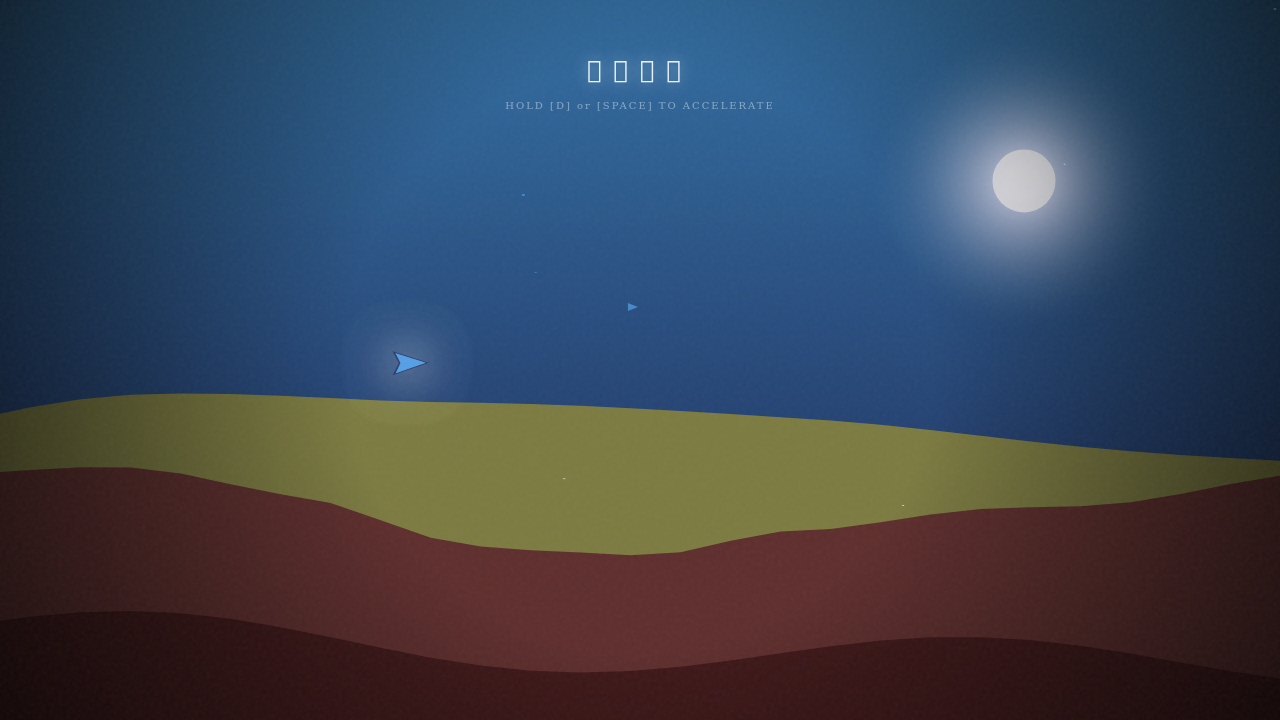
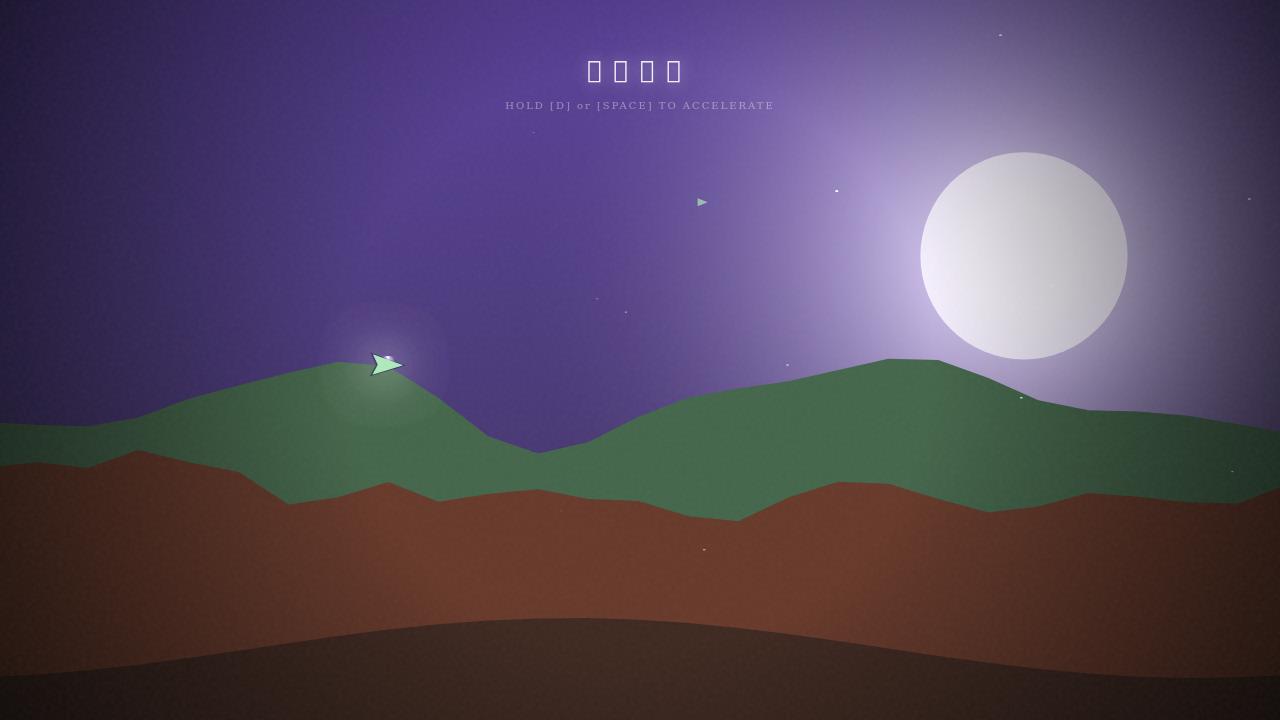
feat: Implement Living Worlds Engine with Dynamic Environmental Performances
This commit brings the universe of TheSky to life by introducing a dynamic environmental performance engine. Instead of static backdrops, scenes now feature a host of procedural, tag-driven events and interactions that create a deeply immersive and "living" world.

Key Features of the "Living Worlds Engine":

1.  **Weather Performances (Thunderstorms):**
    *   An event-based weather system has been implemented.
    *   Scenes tagged as `stormy` and experiencing `rain` will now feature dramatic, randomly timed lightning flashes that illuminate the entire world, adding tension and spectacle.

2.  **Interactive Environments:**
    *   **"Breath of the Wind"**: Flora-based props (grass, branches, etc.) in scenes tagged `nature` now dynamically sway and bend in reaction to the player's flight speed, creating a tangible sense of interaction with the environment.
    *   **"Heartbeat of the Earth"**: The ground in volcanic scenes tagged `fire` now features procedurally drawn, glowing lava fissures that gently pulse with light, giving the impression of a living, breathing landscape.

3.  **Grand Sky Performances (Dynamic Auroras):**
    *   A new sky-layer rendering system has been created for large-scale atmospheric effects.
    *   Scenes tagged `aurora` (e.g., "Aurora Glacier") will now display majestic, procedurally generated auroras that slowly dance and warp across the entire sky, creating breathtaking celestial views.

4.  **Tag System Integration:**
[…]

diff --git a/game.js b/game.js
@@ -85,7 +85,7 @@ const THEMES = [
     },
     {
         name: { en: "NEON GRID", ch: "霓虹网格" },
-        tags: ['dark', 'city', 'cyberpunk'],
+        tags: ['dark', 'city', 'cyberpunk', 'stormy'],
         sky: ['#000000', '#5e35b1'],
         sun: '#f06292', sunSize: 90, sunY: 0.5,
         mountFar: '#283593', mountNear: '#1a237e',
@@ -111,7 +111,7 @@ const THEMES = [
     },
     {
         name: { en: "VOLCANIC CHASM", ch: "火山裂谷" },
-        tags: ['dark', 'fire', 'jagged', 'hostile'],
+        tags: ['dark', 'fire', 'jagged', 'hostile', 'stormy'],
         sky: ['#210806', '#8c1102'],
         sun: '#ffae3d', sunSize: 150, sunY: 0.6,
         mountFar: '#1a090d', mountNear: '#2b0f15',
@@ -176,7 +176,7 @@ const THEMES = [
     },
     {
         name: { en: "AURORA GLACIER", ch: "极光冰川" },
-        tags: ['cold', 'ice', 'sky', 'winter'],
+        tags: ['cold', 'ice', 'sky', 'winter', 'aurora'],
         sky: ['#0c1440', '#00a896'],
         sun: '#ffffff', sunSize: 40, sunY: 0.2,
         mountFar: '#add8e6', mountNear: '#ffffff',
@@ -374,7 +374,18 @@ const state = {
     npcs: [],
 
     // --- 新增：远景实体状态 ---
-    distantEntities: []
+    distantEntities: [],
+
+    // --- 新增：天气事件状态 ---
+    lightning: {
+        timer: 200,
+        alpha: 0
+    },
+
+    // --- 新增：天幕效果状态 ---
+    aurora: {
+        bands: []
+    }
 };
 
 // --- 新增：创世引擎 - Director模块 ---
@@ -537,6 +548,8 @@ const Director = {
         if (Math.random() < 0.2) newTheme.tags.push('ruins');
         if (Math.random() < 0.1) newTheme.tags.push('magic');
         if (Math.random() < 0.1) newTheme.tags.push('void');
+        if (Math.random() < 0.15 && newTheme.tags.includes('rainy')) newTheme.tags.push('stormy');
+        if (newTheme.tags.includes('cold') && Math.random() < 0.3) newTheme.tags.push('aurora');
 
 
         return newTheme;
@@ -801,6 +814,7 @@ function update(deltaTime, timestamp) {
     // --- 5. 场景演出 (Cinematics) ---
     handleCinematicEvents();
     updateDistantEntities();
+    updateAurora(timestamp);
 }
 
 // --- 新增：场景演出系统 ---
@@ -934,6 +948,23 @@ function updateWeather() {
             p.life = 0;
         }
     });
+
+    // --- 新增：天气事件 - 闪电 ---
+    if (state.lightning.alpha > 0) {
+        state.lightning.alpha -= 0.05; // 闪电淡出
+    }
+
+    if (theme.tags.includes('stormy') && theme.weather === 'rain') {
+        state.lightning.timer--;
+        if (state.lightning.timer <= 0) {
+            state.lightning.alpha = random(0.8, 1.2); // 触发闪电
+            state.lightning.timer = random(120, 500); // 重置计时器
+        }
+    } else {
+        // 如果不是风暴雨天，则确保闪电计时器和效果被重置
+        state.lightning.timer = 200;
+        state.lightning.alpha = 0;
+    }
 }
 
 
@@ -1147,6 +1178,9 @@ function draw(timestamp) {
     ctx.fillStyle = grad;
     ctx.fillRect(0, 0, w, h);
 
+    // --- 新增: 1.5 天幕效果 (极光) ---
+    drawAurora(ctx, C);
+
     // --- 2. 太阳/月亮 (Bloom Glow) ---
     ctx.save();
     const sunX = w * 0.8;
@@ -1213,6 +1247,12 @@ function draw(timestamp) {
     // --- 8. 前景粒子 ---
     drawParticles(ctx, C, 1.0); // 前景粒子最清晰
 
+    // --- 新增：8.5 闪电效果 ---
+    if (state.lightning.alpha > 0) {
+        ctx.fillStyle = `rgba(255, 255, 255, ${state.lightning.alpha})`;
+        ctx.fillRect(0, 0, w, h);
+    }
+
     // --- 9. 天气效果 ---
     drawWeather(ctx, C);
 
@@ -1232,6 +1272,73 @@ function drawNpcs(ctx, C) {
         ctx.moveTo(screenX, npc.y);
         ctx.lineTo(screenX - 10, npc.y - 4);
         ctx.lineTo(screenX - 10, npc.y + 4);
+        ctx.closePath();
+        ctx.fill();
+    });
+
+    ctx.restore();
+}
+
+// --- 新增：天幕效果 - 极光系统 ---
+const auroraNoise = new ValueNoise(Math.random());
+
+function updateAurora(timestamp) {
+    const theme = THEMES[state.currentThemeIdx];
+    if (!theme.tags.includes('aurora')) {
+        state.aurora.bands = []; // 如果场景没有aurora标签，则清空
+        return;
+    }
+
+    // 如果是极光场景，但还没有极光带，则初始化
+    if (state.aurora.bands.length === 0) {
+        for (let i = 0; i < 3; i++) { // 创建3条主要光带
+            state.aurora.bands.push({
+                y: random(h * 0.1, h * 0.4),
+                height: random(50, 150),
+                color: [random(180, 220), random(80, 120), random(200, 255)], // 偏绿/蓝/紫
+                segments: 50,
+                noiseSpeed: random(0.05, 0.1)
+            });
+        }
+    }
+
+    // 更新每条光带的形状
+    state.aurora.bands.forEach(band => {
+        for (let i = 0; i <= band.segments; i++) {
+            const noiseX = i * band.noiseSpeed + timestamp / 1000;
+            const displacement = auroraNoise.get(noiseX) * 100 - 50;
+            band.shapePoints = band.shapePoints || [];
+            band.shapePoints[i] = displacement;
+        }
+    });
+}
+
+function drawAurora(ctx, C) {
+    if (state.aurora.bands.length === 0) return;
+
+    ctx.save();
+    ctx.globalCompositeOperation = 'lighter';
+
+    state.aurora.bands.forEach(band => {
+        const grad = ctx.createLinearGradient(0, band.y - band.height, 0, band.y + band.height);
+        grad.addColorStop(0, `rgba(${band.color[0]}, ${band.color[1]}, ${band.color[2]}, 0)`);
+        grad.addColorStop(0.5, `rgba(${band.color[0]}, ${band.color[1]}, ${band.color[2]}, 0.15)`);
+        grad.addColorStop(1, `rgba(${band.color[0]}, ${band.color[1]}, ${band.color[2]}, 0)`);
+
+        ctx.fillStyle = grad;
+
+        ctx.beginPath();
+        ctx.moveTo(0, band.y + band.shapePoints[0]);
+
+        for (let i = 1; i <= band.segments; i++) {
+            const x = (w / band.segments) * i;
+            const y = band.y + band.shapePoints[i];
+            ctx.lineTo(x, y);
+        }
+
+        // 封闭路径以填充
+        ctx.lineTo(w, h);
+        ctx.lineTo(0, h);
         ctx.closePath();
         ctx.fill();
     });
@@ -1623,6 +1730,42 @@ function drawGroundAndProps(ctx, C, progress) {
     // --- 从区块绘制地面 ---
     drawTerrainLayerFromChunks(ctx, C.ground, 2, progress); // 2是地面的图层索引
 
+    // --- 新增：地之火 - 脉动的熔岩裂隙 ---
+    const theme = THEMES[state.currentThemeIdx];
+    if (theme.tags.includes('fire')) {
+        const pulseAlpha = 0.6 + Math.sin(timestamp / 400) * 0.4; // 脉动透明度
+
+        ctx.save();
+        ctx.globalCompositeOperation = 'lighter';
+        ctx.strokeStyle = `rgba(255, 172, 61, ${pulseAlpha})`;
+        ctx.lineWidth = 3;
+        ctx.shadowBlur = 20;
+        ctx.shadowColor = C.accent;
+
+        // 复用地形绘制逻辑来画裂隙，但使用不同的路径
+        ctx.beginPath();
+        const startChunkId = Math.floor(state.worldScrollX / CFG.CHUNK_WIDTH);
+        const endChunkId = Math.floor((state.worldScrollX + w) / CFG.CHUNK_WIDTH);
+        const step = CFG.CHUNK_WIDTH / CFG.CHUNK_RESOLUTION;
+
+        for (let id = startChunkId; id <= endChunkId; id++) {
+            const chunk = state.terrain.chunks.get(id);
+            if (!chunk) continue;
+            const layerData = chunk.layers[2]; // 地面层
+            if (!layerData) continue;
+            for (let i = 0; i < layerData.length; i++) {
+                const pointData = layerData[i];
+                const screenX = chunk.worldX + i * step - state.worldScrollX;
+                const y = lerp(pointData.y1, pointData.y2, progress);
+                // 稍微偏移裂隙，使其看起来在地面之下
+                ctx.lineTo(screenX, y + 5 + Math.sin(i * 0.5) * 2);
+            }
+        }
+        ctx.stroke();
+        ctx.restore();
+    }
+
+
     // 地面高光
     // (注意: 这个高光效果暂时简化，因为精确重现需要额外计算)
     ctx.strokeStyle = C.accent;
@@ -1653,6 +1796,16 @@ function drawGroundAndProps(ctx, C, progress) {
         ctx.translate(x, groundY);
         ctx.scale(p.scale, p.scale);
         ctx.rotate(p.rot);
+
+        // --- 新增：风之语 - 互动式植物摇曳 ---
+        const theme = THEMES[state.currentThemeIdx];
+        const plantTypes = ['grass', 'branches', 'leaf', 'corals', 'mushrooms'];
+        if (theme.tags.includes('nature') && plantTypes.includes(p.type)) {
+            const windStrength = state.player.velocity.x / CFG.playerMaxSpeed;
+            // 使用 sin 给一个基础的、呼吸般的摆动，再加上速度带来的强烈摆动
+            const swayAngle = Math.sin(timestamp / 500 + p.worldX) * 0.1 + windStrength * -0.5;
+            ctx.rotate(swayAngle);
+        }
 
         ctx.shadowBlur = 10;
         ctx.shadowColor = C.accent;
